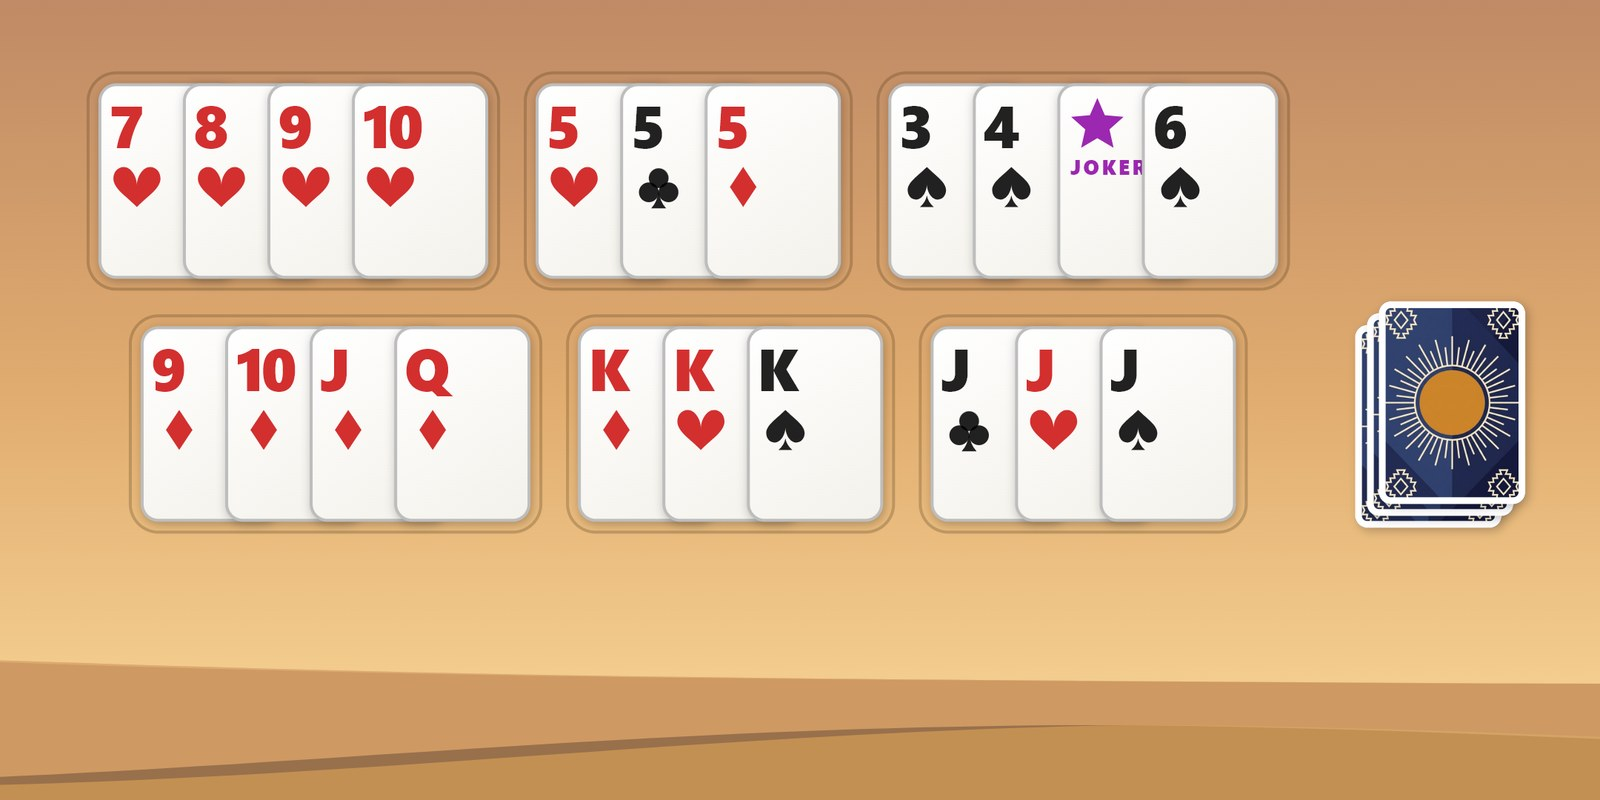
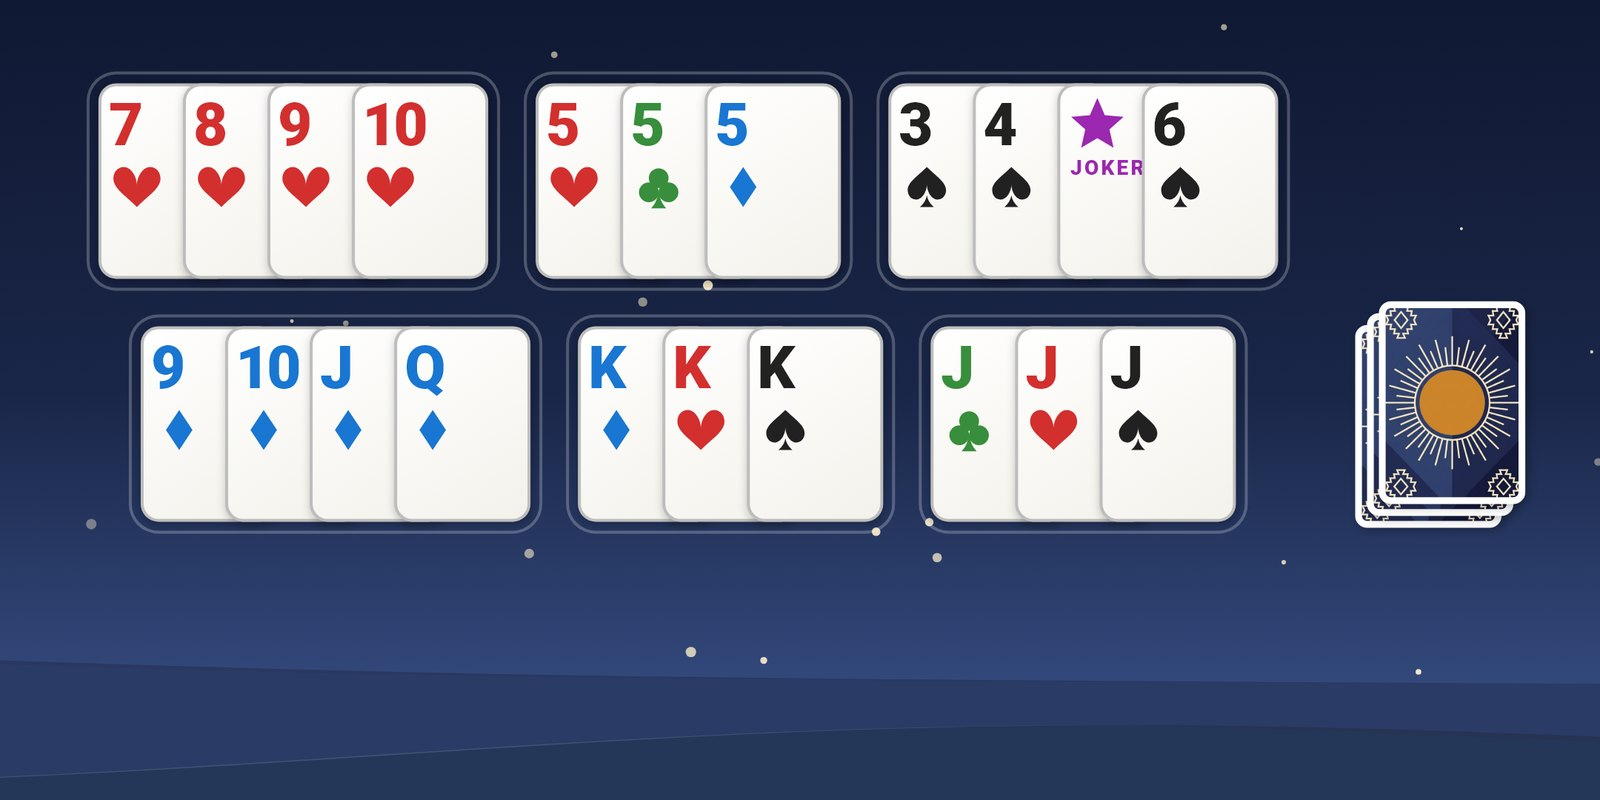
Visuels en cartes simplifiées et en quatre couleurs : bandeau et page française
Copies des images du dépôt ramio-site : bandeau large et mobile en
Désert de sable de nuit (quatre couleurs), défi du jour en Arctique et
aperçu du kit Forge et obsidienne en cartes simplifiées. Le texte
alternatif du bandeau des pages Räuber-Rommé et Mexe-Mexe dit la nuit
et non plus le couchant.

diff --git a/ramio/assets/ramio.css b/ramio/assets/ramio.css
@@ -73,7 +73,7 @@ select.langue { font: inherit; font-size: .9em; color: var(--encre); background:
 .etape p { color: var(--texte); margin-top: 6px; font-size: .97em; }
 code { font-family: ui-monospace, Consolas, monospace; letter-spacing: .14em; color: var(--sable); }
 
-.final { border-radius: 18px; overflow: hidden; border: 1px solid var(--ligne); background: #6b3f21 url("ramio-bandeau.jpg") center / cover no-repeat; color: #F3F1EA; }
+.final { border-radius: 18px; overflow: hidden; border: 1px solid var(--ligne); background: #1b2748 url("ramio-bandeau.jpg") center / cover no-repeat; color: #F3F1EA; }
 .final > div { padding: 150px 30px 30px; background: linear-gradient(180deg, rgba(15, 29, 49, 0) 0%, rgba(15, 29, 49, .93) 58%); }
 .final h2 { font-size: clamp(1.6em, 4vw, 2.4em); }
 .final p { color: #C9D2DF; margin-top: 6px; }

diff --git a/ramio/raeuber-romme/index.html b/ramio/raeuber-romme/index.html
@@ -60,7 +60,7 @@
     <main id="content" class="main-content" role="main">
       <picture>
         <source media="(max-width: 42em)" srcset="/ramio/assets/ramio-bandeau-mobile.jpg">
-        <img src="/ramio/assets/ramio-bandeau.jpg" alt="Ein Ramio-Tisch bei Sonnenuntergang in der Wüste: Reihen, Drillinge, ein Joker und der Stapel." style="display:block;width:100%;border-radius:12px;margin:0 0 1.5em;">
+        <img src="/ramio/assets/ramio-bandeau.jpg" alt="Ein Ramio-Tisch bei Nacht in der Wüste: Reihen, Drillinge, ein Joker und der Stapel." style="display:block;width:100%;border-radius:12px;margin:0 0 1.5em;">
       </picture>
 
       <p><strong>Räuber-Rommé, Räuberrommé, Manipulationsrommé</strong> — gemeint ist

diff --git a/ramio/mexe-mexe/index.html b/ramio/mexe-mexe/index.html
@@ -60,7 +60,7 @@
     <main id="content" class="main-content" role="main">
       <picture>
         <source media="(max-width: 42em)" srcset="/ramio/assets/ramio-bandeau-mobile.jpg">
-        <img src="/ramio/assets/ramio-bandeau.jpg" alt="Uma mesa de Ramio ao pôr do sol no deserto: sequências, trincas, um curinga e o monte." style="display:block;width:100%;border-radius:12px;margin:0 0 1.5em;">
+        <img src="/ramio/assets/ramio-bandeau.jpg" alt="Uma mesa de Ramio à noite no deserto: sequências, trincas, um curinga e o monte." style="display:block;width:100%;border-radius:12px;margin:0 0 1.5em;">
       </picture>
 
       <p><strong>Mexe-mexe, troca-troca</strong> — é aquele jogo de cartas em que
